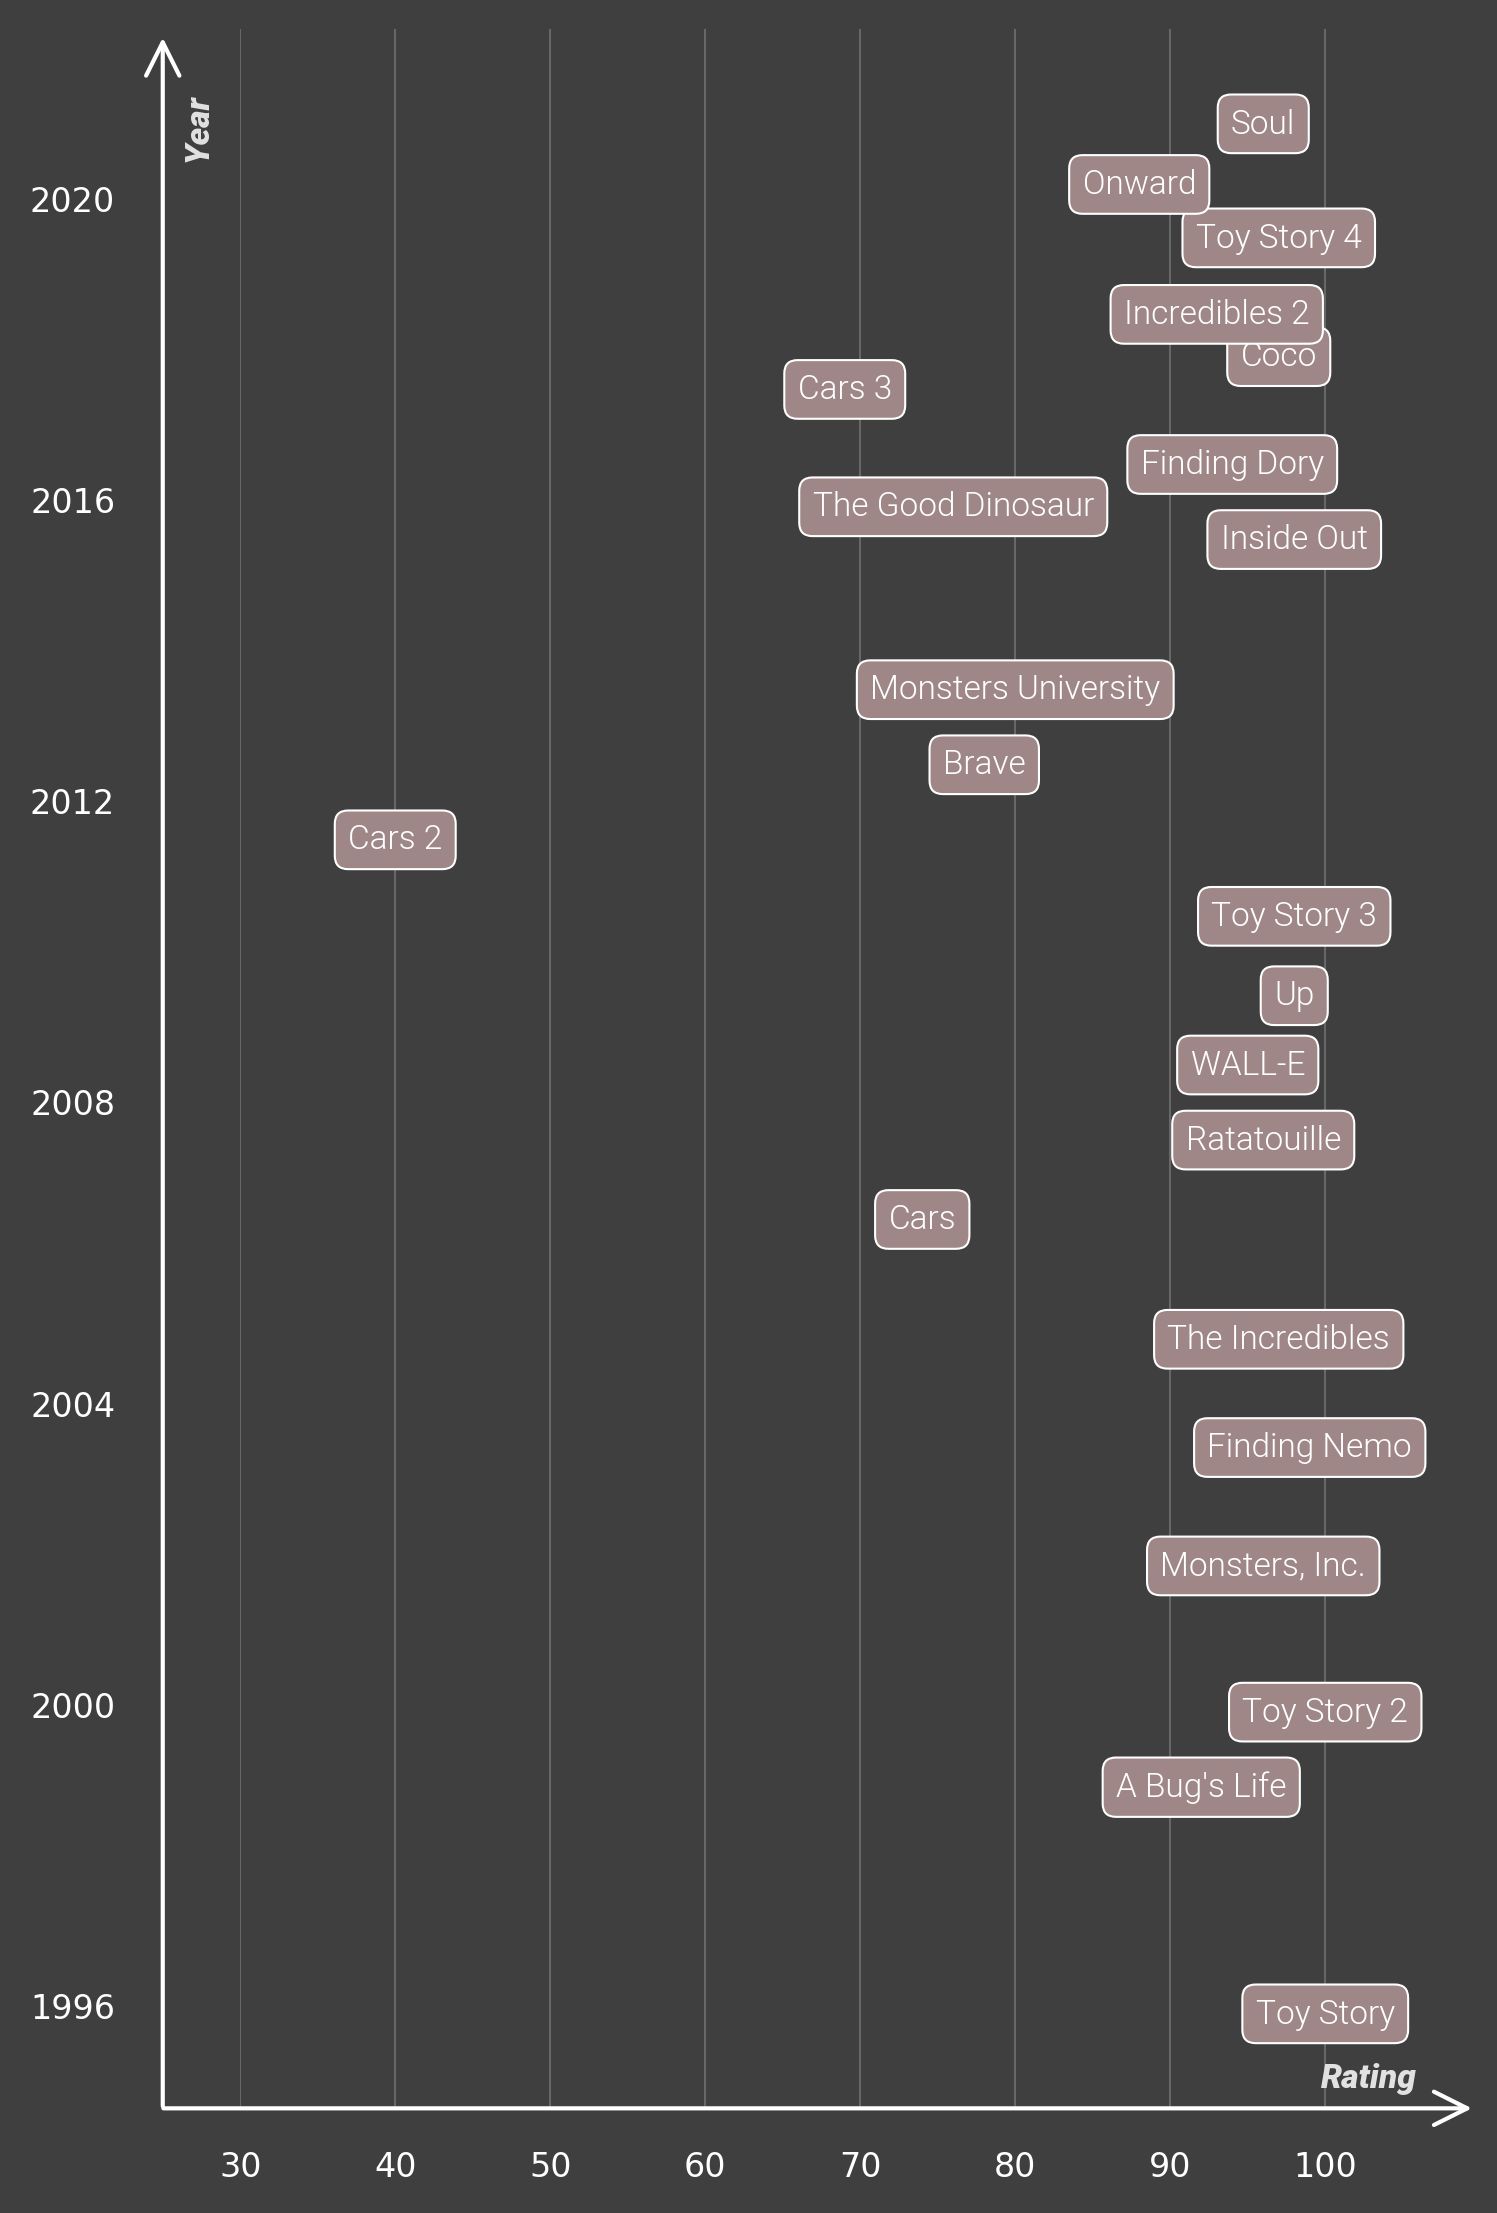
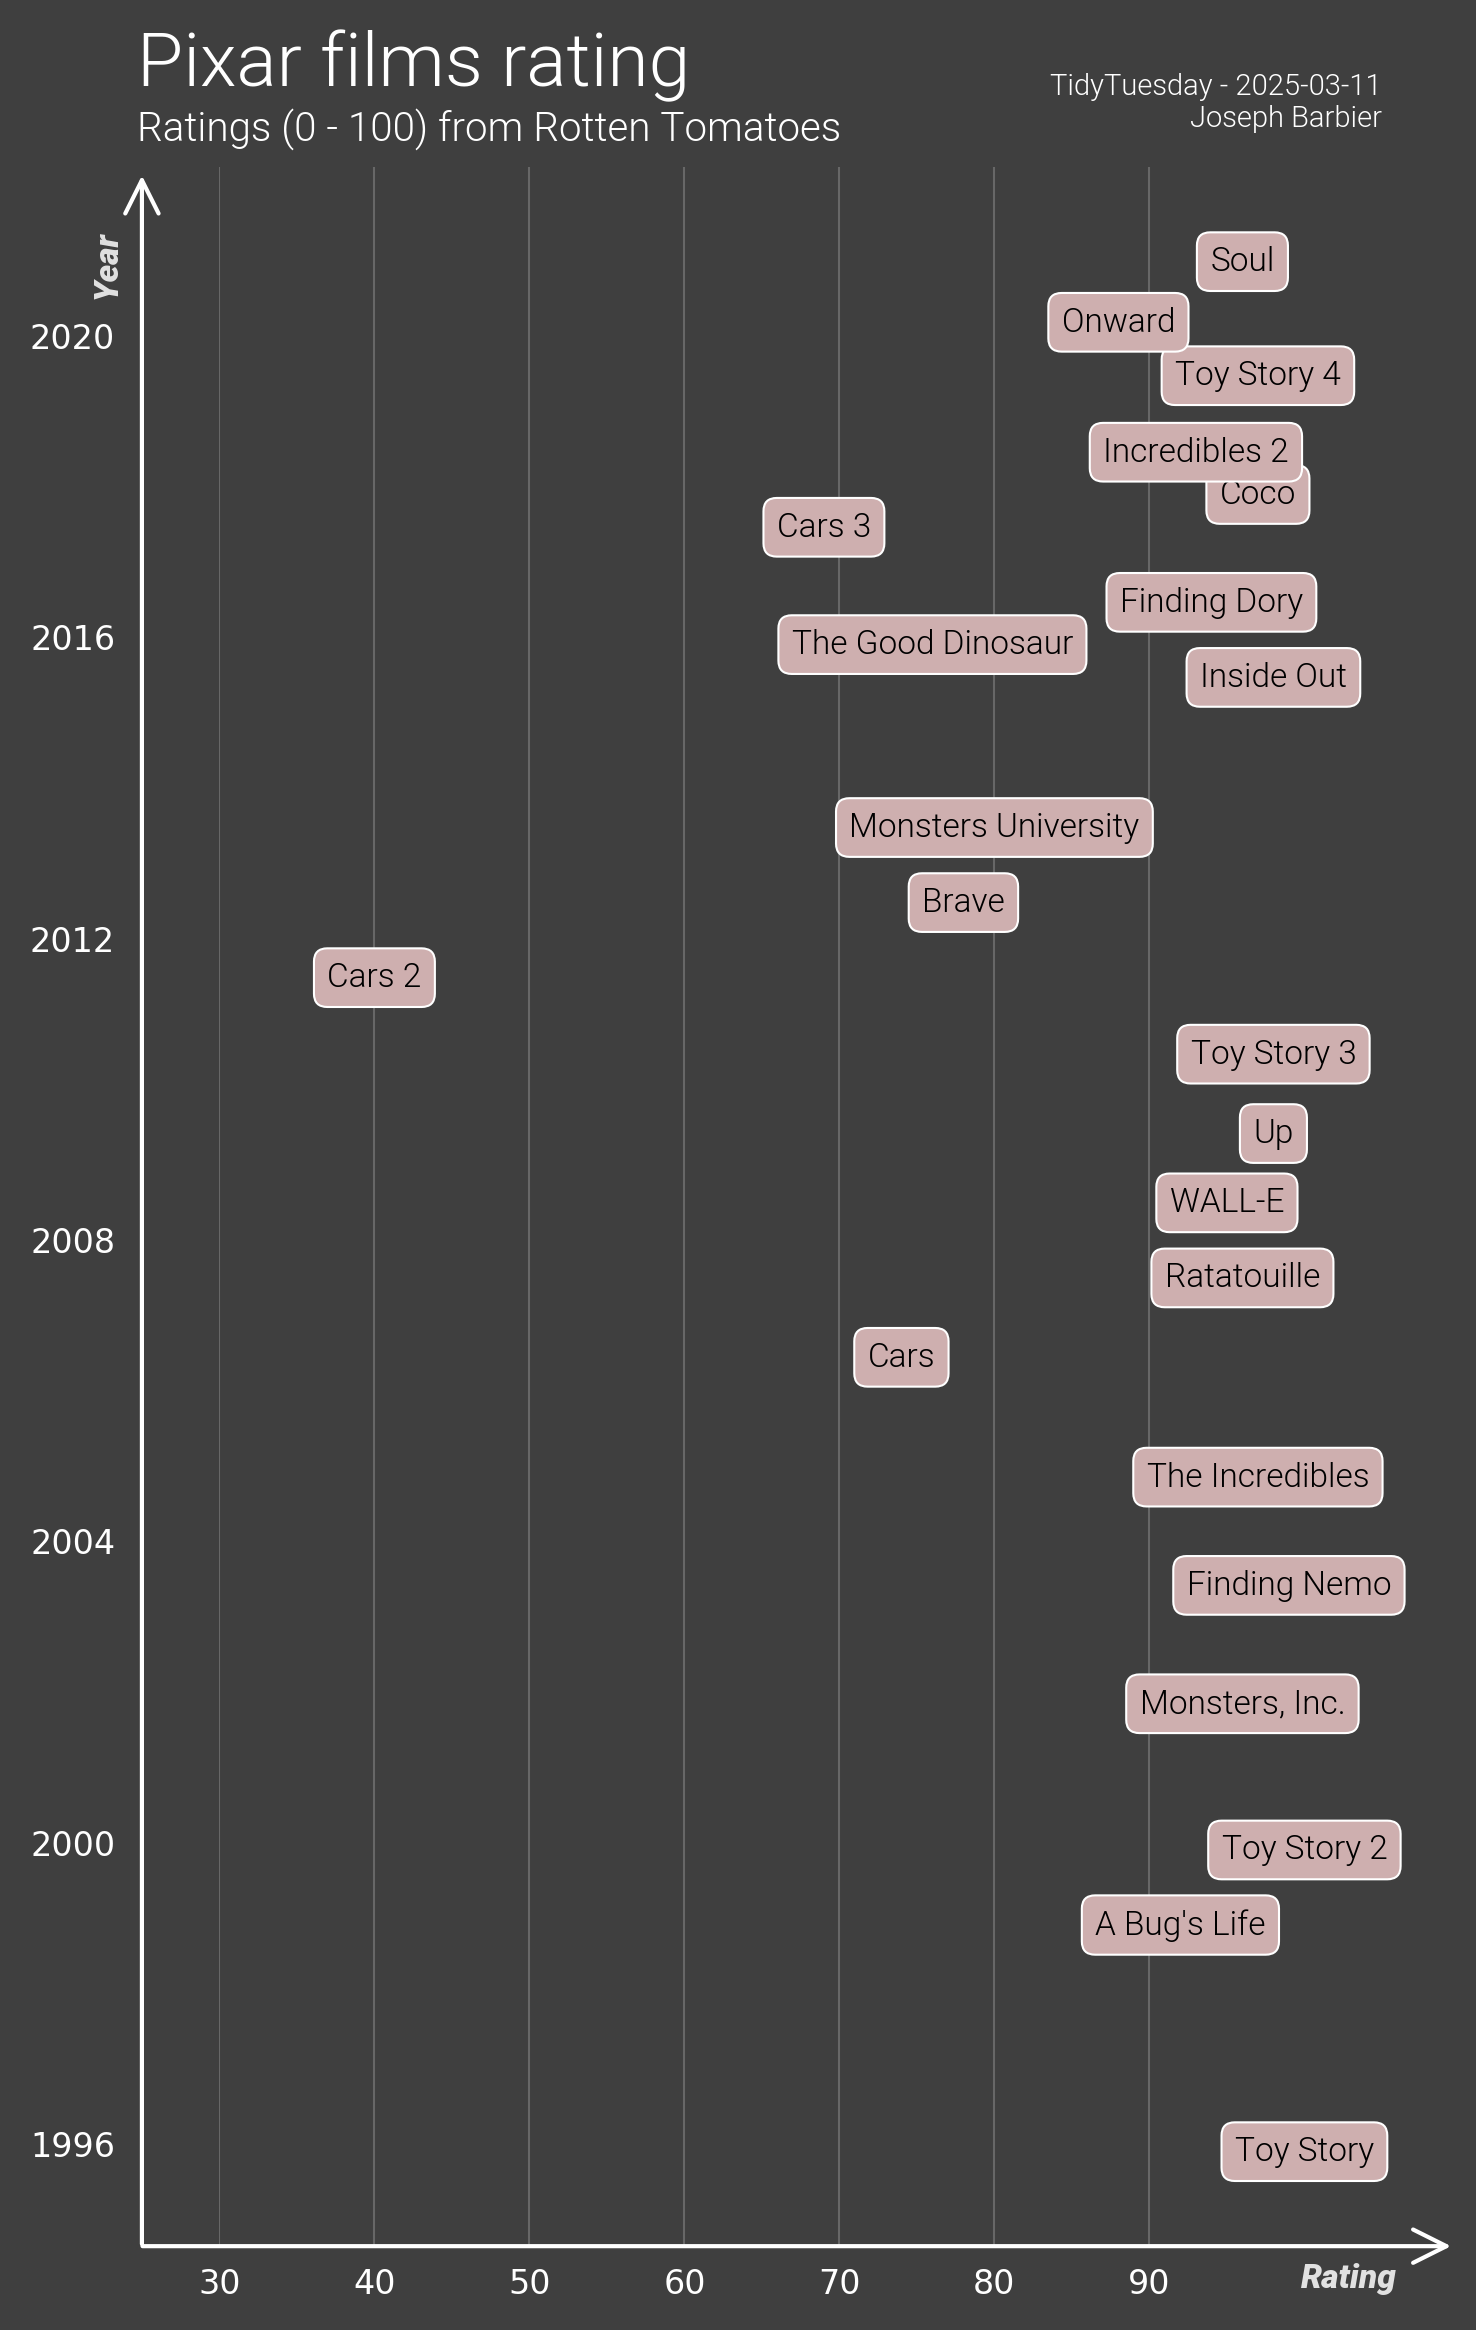
tidytuesday

diff --git a/src/2025/2025-03-11/main.py b/src/2025/2025-03-11/main.py
@@ -34,8 +34,9 @@ ax.set_xlim(30, 105)
 ax.spines[["top", "right", "left", "bottom"]].set_visible(False)
 ax.grid(axis="x", color="#676767", zorder=-1, lw=0.5)
 ax.tick_params(labelsize=8, size=0, labelcolor=text_color)
-ax.tick_params(axis="x", pad=10)
-ax.tick_params(axis="y", pad=30)
+ax.tick_params(axis="x", pad=5)
+ax.tick_params(axis="y", pad=25)
+ax.set_xticks(list(range(30, 91, 10)))
 
 x0, x1 = ax.get_xlim()
 y0, y1 = ax.get_ylim()
@@ -51,8 +52,8 @@ ax_arrow([x0 - 5.5, y0], [x1 + 5, y0], **arrow_style)
 ax_arrow([x0 - 5, y0 - 30], [x0 - 5, y1], **arrow_style)
 
 label_style = dict(color="#e1e1e1", transform=ax.transAxes, font=italicfont, size=8)
-ax.text(x=-0.05, y=0.94, s="Year", rotation=90, **label_style)
-ax.text(x=0.93, y=0.01, s="Rating", **label_style)
+ax.text(x=-0.11, y=0.94, s="Year", rotation=90, **label_style)
+ax.text(x=0.93, y=-0.02, s="Rating", **label_style)
 
 for i, row in df.iterrows():
     ax.text(
@@ -63,15 +64,36 @@ for i, row in df.iterrows():
         va="center",
         size=8,
         zorder=10,
-        color=text_color,
+        color="black",
         font=lightfont,
         bbox=dict(
             boxstyle="round",
-            facecolor="#9f8787",
+            facecolor="#ceafaf",
             edgecolor=text_color,
             lw=0.5,
             pad=0.4,
         ),
     )
+
+fig.text(
+    x=0.07, y=0.91, s="Pixar films rating", color=text_color, font=lightfont, size=18
+)
+fig.text(
+    x=0.07,
+    y=0.89,
+    s="Ratings (0 - 100) from Rotten Tomatoes",
+    color=text_color,
+    font=lightfont,
+    size=9.7,
+)
+fig.text(
+    x=0.9,
+    y=0.895,
+    s="TidyTuesday - 2025-03-11\nJoseph Barbier",
+    font=lightfont,
+    size=7,
+    color=text_color,
+    ha="right",
+)
 
 fig.savefig("src/2025/2025-03-11/output.png", dpi=300, bbox_inches="tight")

diff --git a/README.md b/README.md
@@ -23,6 +23,10 @@ uv run src/2025/2025-03-04/main.py
 
 ## Visualizations
 
+#### 2025-03-1 - Pixar films
+
+![](src/2025/2025-03-11/output.png)
+
 #### 2025-03-04 - Long Beach animal shelter
 
 ![](src/2025/2025-03-04/output.png)
